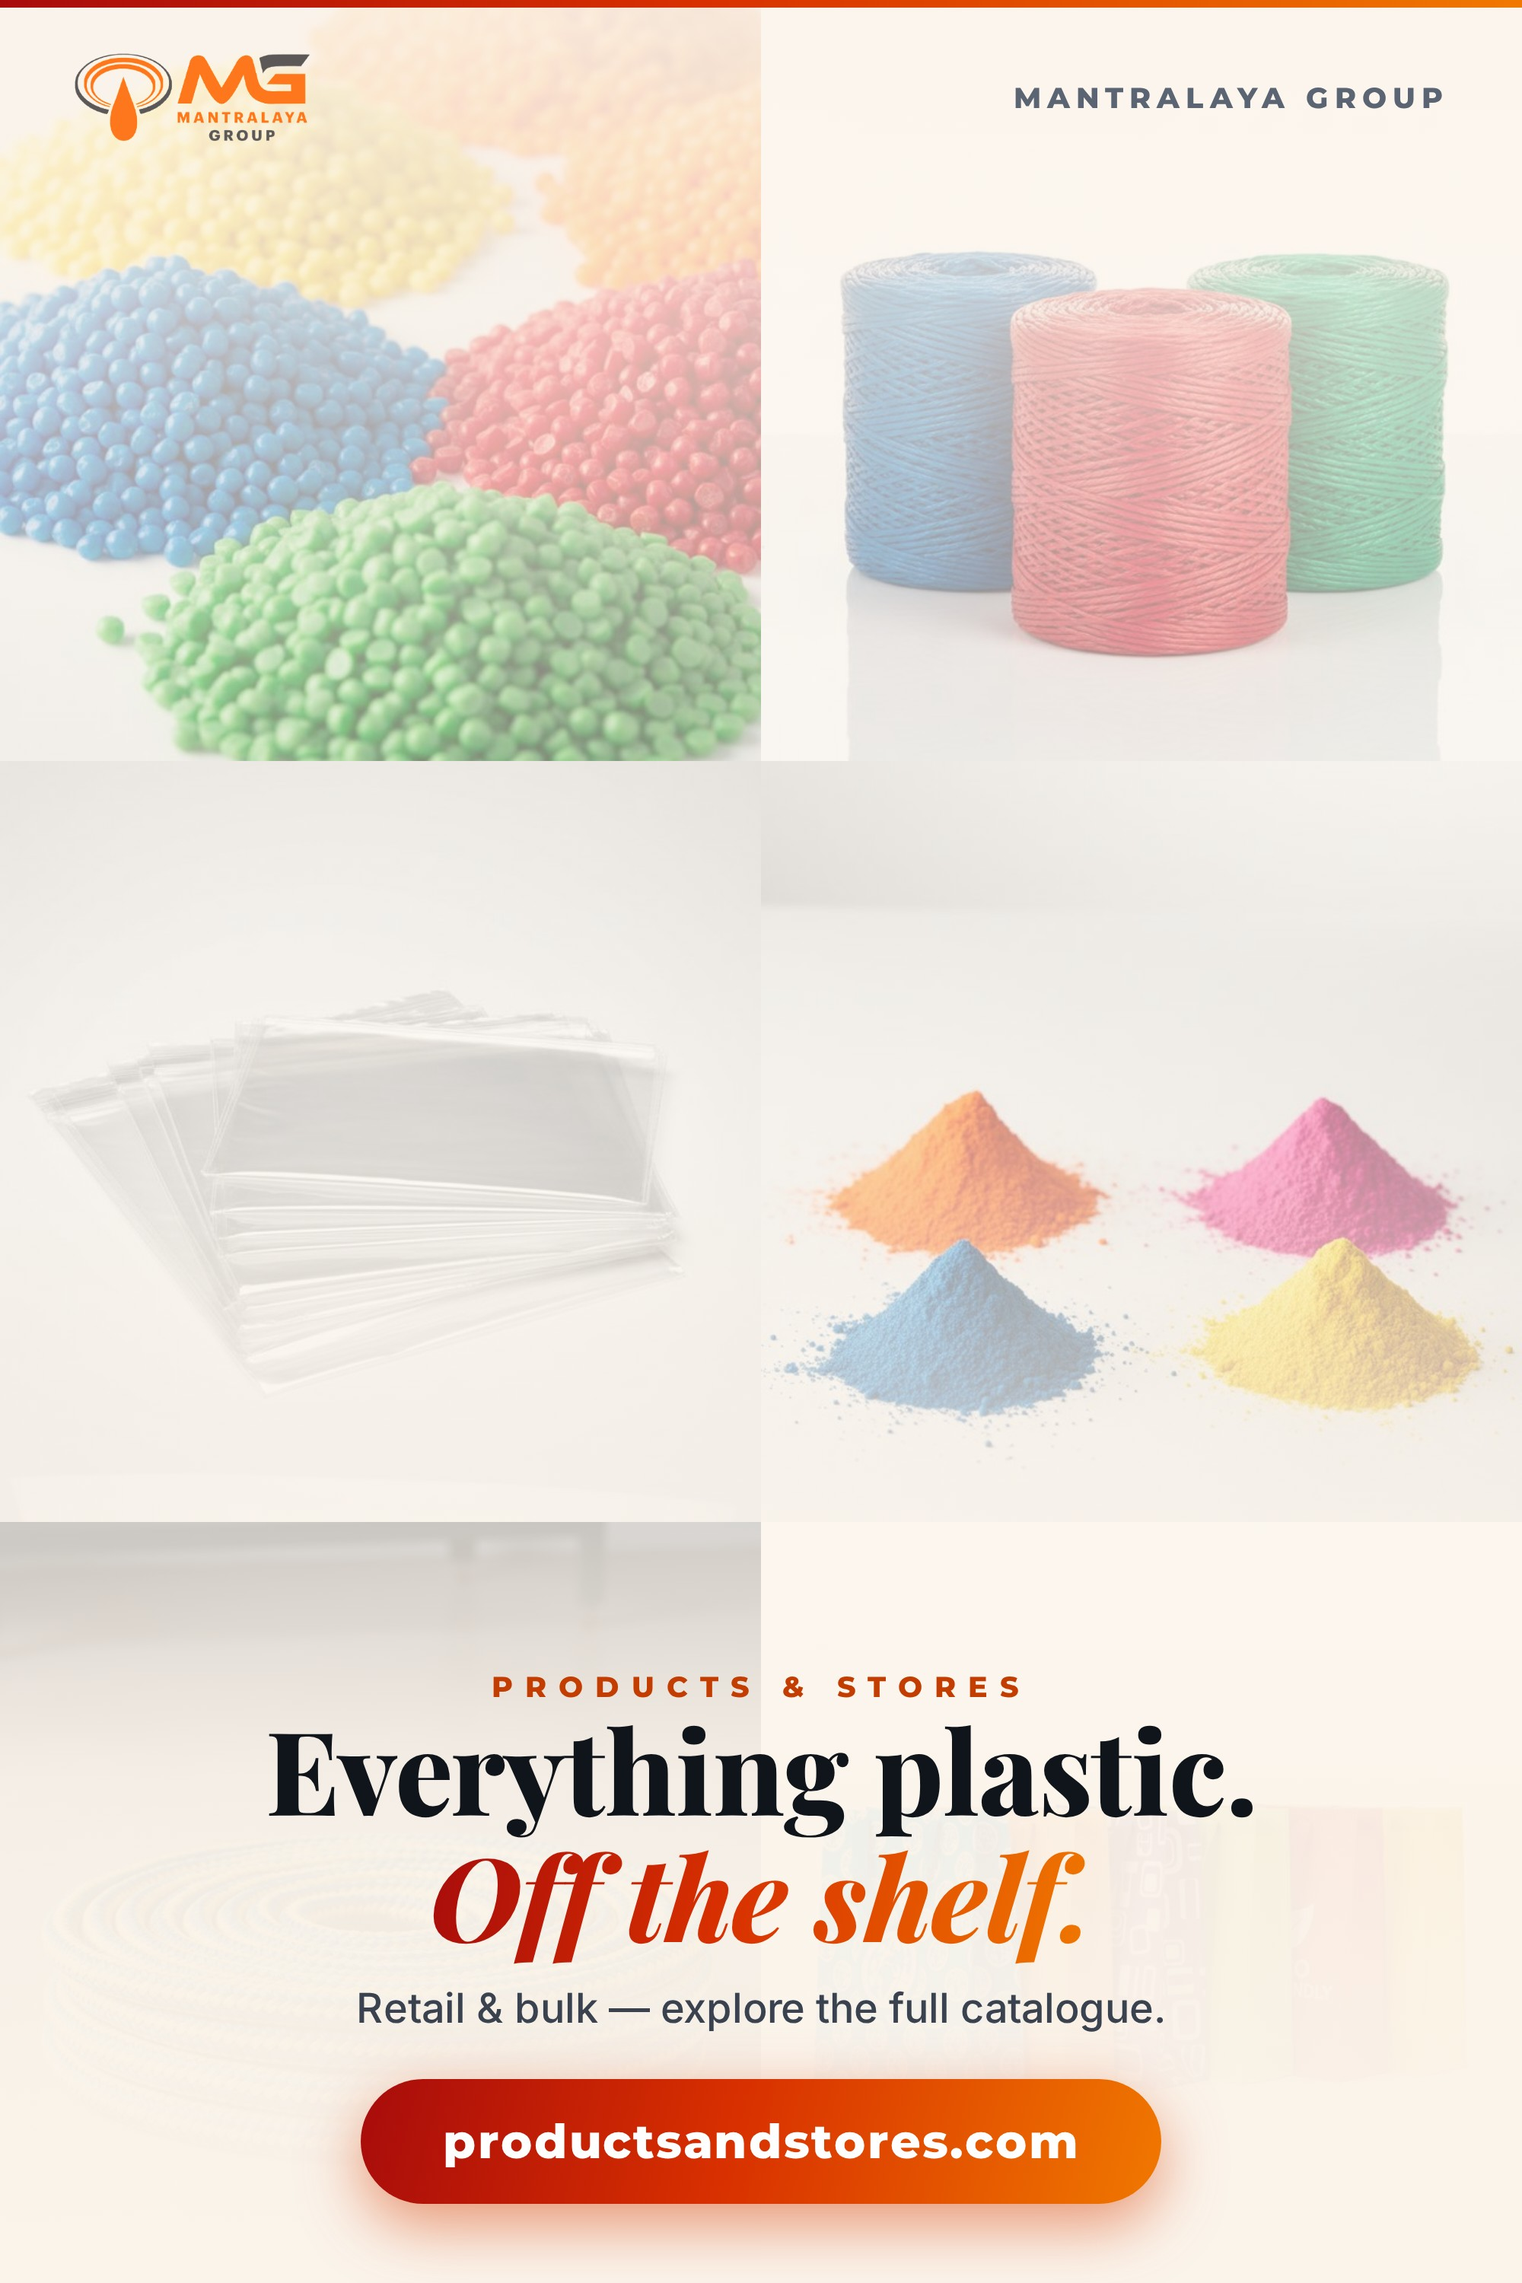
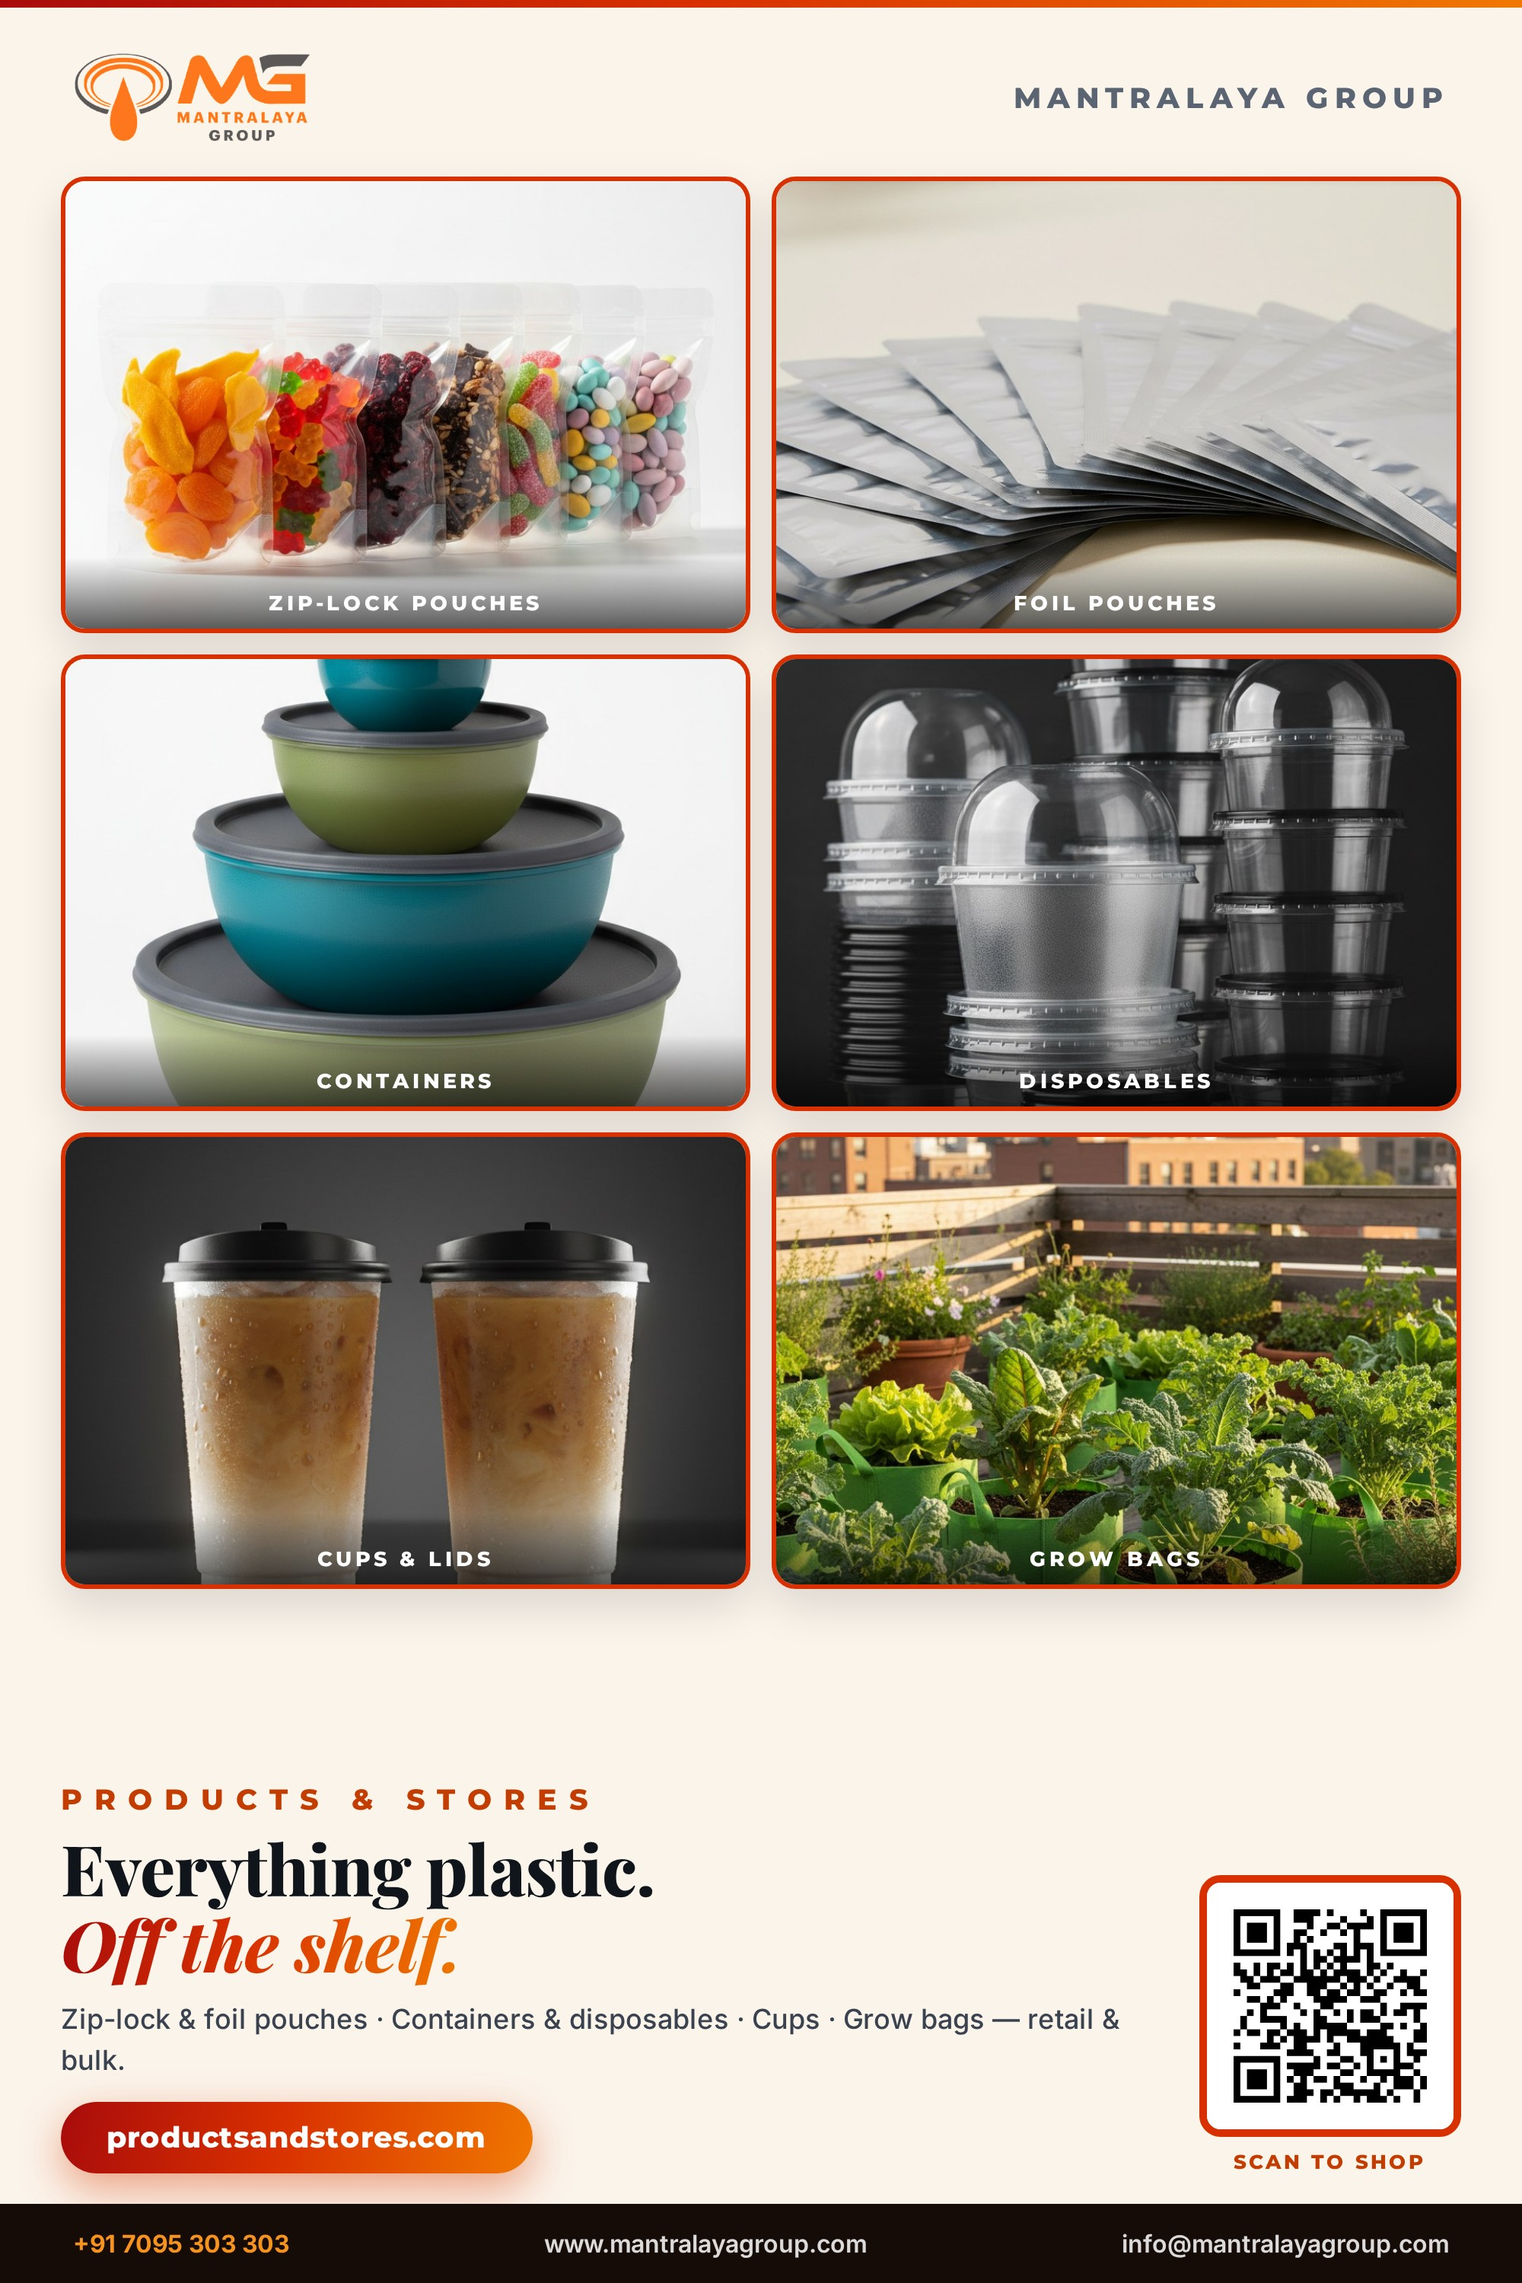
P&S poster rebuilt: store product collage, info bottom, QR bottom-right

diff --git a/posters/src/poster-11-pands--dark.html b/posters/src/poster-11-pands--dark.html
@@ -14,13 +14,26 @@ body{width:1000px;height:1500px;overflow:hidden;position:relative;font-family:'M
 .bgimg::after{content:'';position:absolute;inset:0;background:linear-gradient(100deg, rgba(18,9,6,0.97) 0%, rgba(18,9,6,0.93) 45%, rgba(18,9,6,0.72) 100%)}
 .z{position:relative;z-index:4}
 </style></head><body><style>
-.coll{position:absolute;inset:0;display:grid;grid-template-columns:repeat(2,1fr);grid-template-rows:repeat(3,1fr)}
-.coll img{width:100%;height:100%;object-fit:cover}
-.coll::after{content:'';position:absolute;inset:0;background:linear-gradient(180deg,rgba(13,8,6,0.86),rgba(13,8,6,0.4) 40%,rgba(13,8,6,0.92) 78%,#0D0806)}
-.bt{margin-top:auto;padding:0 52px 52px;text-align:center;position:relative;z-index:4}
-.cap2{font-size:76px}
+.coll{position:relative;margin:22px 40px 0;display:grid;grid-template-columns:1fr 1fr;grid-auto-rows:300px;gap:14px;z-index:4}
+.cw{position:relative;border-radius:16px;overflow:hidden;border:3px solid rgba(240,120,0,0.65);box-shadow:0 12px 28px rgba(0,0,0,0.4)}
+.cw img{width:100%;height:100%;object-fit:cover;display:block}
+.cl{position:absolute;left:0;right:0;bottom:0;padding:22px 14px 9px;text-align:center;font-size:13.5px;font-weight:800;letter-spacing:2px;color:#fff;background:linear-gradient(180deg,transparent,rgba(0,0,0,0.62))}
+.bt{flex:1;display:flex;align-items:flex-end;gap:26px;padding:20px 40px 20px;position:relative;z-index:4}
+.bl{flex:1}
+.cap2{font-size:46px;margin-top:8px;color:#fff}
 .cap2 em{background:linear-gradient(100deg,#FF6A2B,#F6921E 60%,#FFC46B);-webkit-background-clip:text;background-clip:text;color:transparent;font-style:italic}
-.sub{margin-top:16px;font-family:'Inter',sans-serif;font-size:27px;font-weight:500;color:rgba(255,255,255,0.85)}
-.pill{display:inline-block;margin-top:30px;background:linear-gradient(105deg,#A80B0B 0%,#D83000 46%,#F07800 100%);color:#fff;border-radius:100px;padding:22px 54px;font-size:31px;font-weight:800;letter-spacing:1px;box-shadow:0 14px 40px rgba(216,60,0,0.5)}
-</style><div class="coll"><img src="../../products/coloured-granules.jpg"><img src="../../products/plastic-sutli.jpg"><img src="../../products/pp-bags.jpg"><img src="../../products/pigments.jpg"><img src="../../products/ropes.jpg"><img src="../../products/non-woven-bags.jpg"></div><div class="rule"></div><div class="hdr"><img src="../../mg-logo-dark.png"><div class="co">MANTRALAYA GROUP</div></div>
-<div class="bt"><div class="label">PRODUCTS &amp; STORES</div><div class="cap cap2">Everything plastic.<br><em>Off the shelf.</em></div><div class="sub">Retail &amp; bulk — explore the full catalogue.</div><div class="pill">productsandstores.com</div></div></body></html>
+.sub{margin-top:10px;font-family:'Inter',sans-serif;font-size:18px;font-weight:500;color:rgba(255,255,255,0.82);line-height:1.5}
+.url{display:inline-block;margin-top:14px;background:linear-gradient(105deg,#A80B0B 0%,#D83000 46%,#F07800 100%);color:#fff;border-radius:100px;padding:12px 30px;font-size:19px;font-weight:800;letter-spacing:0.5px;box-shadow:0 10px 28px rgba(216,60,0,0.45)}
+.qr{flex:none;text-align:center}
+.qr img{width:172px;height:172px;border-radius:14px;border:5px solid #D83000;background:#fff;display:block}
+.qr .t{margin-top:8px;font-size:13px;font-weight:800;letter-spacing:2px;color:#F6921E}
+</style><div class="rule"></div><div class="hdr"><img src="../../mg-logo-dark.png"><div class="co">MANTRALAYA GROUP</div></div>
+<div class="coll"><div class="cw"><img src="../../products/ps-snack-pouches.jpg"><div class="cl">ZIP-LOCK POUCHES</div></div><div class="cw"><img src="../../products/ps-foil-pouches.jpg"><div class="cl">FOIL POUCHES</div></div><div class="cw"><img src="../../products/ps-food-containers.jpg"><div class="cl">CONTAINERS</div></div><div class="cw"><img src="../../products/ps-disposables.jpg"><div class="cl">DISPOSABLES</div></div><div class="cw"><img src="../../products/ps-cups.jpg"><div class="cl">CUPS &amp; LIDS</div></div><div class="cw"><img src="../../products/ps-grow-bags.jpg"><div class="cl">GROW BAGS</div></div></div>
+<div class="bt"><div class="bl">
+<div class="label">PRODUCTS &amp; STORES</div>
+<div class="cap cap2">Everything plastic.<br><em>Off the shelf.</em></div>
+<div class="sub">Zip-lock &amp; foil pouches · Containers &amp; disposables · Cups · Grow bags — retail &amp; bulk.</div>
+<div class="url">productsandstores.com</div>
+</div>
+<div class="qr"><img src="../qr-ps.png"><div class="t">SCAN TO SHOP</div></div>
+</div><div class="ftr"><span><b>+91 7095 303 303</b></span><span>www.mantralayagroup.com</span><span>info@mantralayagroup.com</span></div></body></html>

diff --git a/posters/src/poster-11-pands--light.html b/posters/src/poster-11-pands--light.html
@@ -14,13 +14,26 @@ body{width:1000px;height:1500px;overflow:hidden;position:relative;font-family:'M
 .bgimg::after{content:'';position:absolute;inset:0;background:linear-gradient(100deg, rgba(251,244,235,0.97) 0%, rgba(251,244,235,0.94) 45%, rgba(251,244,235,0.72) 100%)}
 .z{position:relative;z-index:4}
 </style></head><body><style>
-.coll{position:absolute;inset:0;display:grid;grid-template-columns:repeat(2,1fr);grid-template-rows:repeat(3,1fr)}
-.coll img{width:100%;height:100%;object-fit:cover}
-.coll::after{content:'';position:absolute;inset:0;background:linear-gradient(180deg,rgba(251,244,235,0.93),rgba(251,244,235,0.42) 40%,rgba(251,244,235,0.95) 78%,#FBF4EB)}
-.bt{margin-top:auto;padding:0 52px 52px;text-align:center;position:relative;z-index:4}
-.cap2{font-size:76px}
+.coll{position:relative;margin:22px 40px 0;display:grid;grid-template-columns:1fr 1fr;grid-auto-rows:300px;gap:14px;z-index:4}
+.cw{position:relative;border-radius:16px;overflow:hidden;border:3px solid #D83000;box-shadow:0 12px 28px rgba(0,0,0,0.12)}
+.cw img{width:100%;height:100%;object-fit:cover;display:block}
+.cl{position:absolute;left:0;right:0;bottom:0;padding:22px 14px 9px;text-align:center;font-size:13.5px;font-weight:800;letter-spacing:2px;color:#fff;background:linear-gradient(180deg,transparent,rgba(0,0,0,0.62))}
+.bt{flex:1;display:flex;align-items:flex-end;gap:26px;padding:20px 40px 20px;position:relative;z-index:4}
+.bl{flex:1}
+.cap2{font-size:46px;margin-top:8px;color:#10141B}
 .cap2 em{background:linear-gradient(100deg,#A80B0B,#D83000 45%,#F07800);-webkit-background-clip:text;background-clip:text;color:transparent;font-style:italic}
-.sub{margin-top:16px;font-family:'Inter',sans-serif;font-size:27px;font-weight:500;color:#3A4250}
-.pill{display:inline-block;margin-top:30px;background:linear-gradient(105deg,#A80B0B 0%,#D83000 46%,#F07800 100%);color:#fff;border-radius:100px;padding:22px 54px;font-size:31px;font-weight:800;letter-spacing:1px;box-shadow:0 14px 40px rgba(216,60,0,0.5)}
-</style><div class="coll"><img src="../../products/coloured-granules.jpg"><img src="../../products/plastic-sutli.jpg"><img src="../../products/pp-bags.jpg"><img src="../../products/pigments.jpg"><img src="../../products/ropes.jpg"><img src="../../products/non-woven-bags.jpg"></div><div class="rule"></div><div class="hdr"><img src="../../mg-logo.png"><div class="co">MANTRALAYA GROUP</div></div>
-<div class="bt"><div class="label">PRODUCTS &amp; STORES</div><div class="cap cap2">Everything plastic.<br><em>Off the shelf.</em></div><div class="sub">Retail &amp; bulk — explore the full catalogue.</div><div class="pill">productsandstores.com</div></div></body></html>
+.sub{margin-top:10px;font-family:'Inter',sans-serif;font-size:18px;font-weight:500;color:#3A4250;line-height:1.5}
+.url{display:inline-block;margin-top:14px;background:linear-gradient(105deg,#A80B0B 0%,#D83000 46%,#F07800 100%);color:#fff;border-radius:100px;padding:12px 30px;font-size:19px;font-weight:800;letter-spacing:0.5px;box-shadow:0 10px 28px rgba(216,60,0,0.45)}
+.qr{flex:none;text-align:center}
+.qr img{width:172px;height:172px;border-radius:14px;border:5px solid #D83000;background:#fff;display:block}
+.qr .t{margin-top:8px;font-size:13px;font-weight:800;letter-spacing:2px;color:#C43D00}
+</style><div class="rule"></div><div class="hdr"><img src="../../mg-logo.png"><div class="co">MANTRALAYA GROUP</div></div>
+<div class="coll"><div class="cw"><img src="../../products/ps-snack-pouches.jpg"><div class="cl">ZIP-LOCK POUCHES</div></div><div class="cw"><img src="../../products/ps-foil-pouches.jpg"><div class="cl">FOIL POUCHES</div></div><div class="cw"><img src="../../products/ps-food-containers.jpg"><div class="cl">CONTAINERS</div></div><div class="cw"><img src="../../products/ps-disposables.jpg"><div class="cl">DISPOSABLES</div></div><div class="cw"><img src="../../products/ps-cups.jpg"><div class="cl">CUPS &amp; LIDS</div></div><div class="cw"><img src="../../products/ps-grow-bags.jpg"><div class="cl">GROW BAGS</div></div></div>
+<div class="bt"><div class="bl">
+<div class="label">PRODUCTS &amp; STORES</div>
+<div class="cap cap2">Everything plastic.<br><em>Off the shelf.</em></div>
+<div class="sub">Zip-lock &amp; foil pouches · Containers &amp; disposables · Cups · Grow bags — retail &amp; bulk.</div>
+<div class="url">productsandstores.com</div>
+</div>
+<div class="qr"><img src="../qr-ps.png"><div class="t">SCAN TO SHOP</div></div>
+</div><div class="ftr"><span><b>+91 7095 303 303</b></span><span>www.mantralayagroup.com</span><span>info@mantralayagroup.com</span></div></body></html>

diff --git a/posters/gen2.py b/posters/gen2.py
@@ -516,6 +516,39 @@ def compco_sq(w,h,dark,cohero,cap,tiles,subline):
 <div class="sub">{subline}</div>
 </div>{FOOT}"""
 
+def pands2(w,h,dark):
+    """Products & Stores 1000x1500 — store product collage, info bottom, QR bottom-right."""
+    gt = GT_W if dark else GT_D
+    fg = '#fff' if dark else '#10141B'
+    photos=[('ps-snack-pouches','ZIP-LOCK POUCHES'),('ps-foil-pouches','FOIL POUCHES'),('ps-food-containers','CONTAINERS'),
+            ('ps-disposables','DISPOSABLES'),('ps-cups','CUPS &amp; LIDS'),('ps-grow-bags','GROW BAGS')]
+    tiles=''.join(f'<div class="cw"><img src="{P(p)}"><div class="cl">{l}</div></div>' for p,l in photos)
+    ov = 'linear-gradient(180deg, rgba(13,8,6,0) 55%, rgba(13,8,6,0.55) 78%, #0D0806 100%)' if dark else 'linear-gradient(180deg, rgba(251,244,235,0) 55%, rgba(251,244,235,0.55) 78%, #FBF4EB 100%)'
+    return base(w,h,dark)+f"""<style>
+.coll{{position:relative;margin:22px 40px 0;display:grid;grid-template-columns:1fr 1fr;grid-auto-rows:300px;gap:14px;z-index:4}}
+.cw{{position:relative;border-radius:16px;overflow:hidden;border:3px solid {'rgba(240,120,0,0.65)' if dark else '#D83000'};box-shadow:0 12px 28px rgba(0,0,0,{'0.4' if dark else '0.12'})}}
+.cw img{{width:100%;height:100%;object-fit:cover;display:block}}
+.cl{{position:absolute;left:0;right:0;bottom:0;padding:22px 14px 9px;text-align:center;font-size:13.5px;font-weight:800;letter-spacing:2px;color:#fff;background:linear-gradient(180deg,transparent,rgba(0,0,0,0.62))}}
+.bt{{flex:1;display:flex;align-items:flex-end;gap:26px;padding:20px 40px 20px;position:relative;z-index:4}}
+.bl{{flex:1}}
+.cap2{{font-size:46px;margin-top:8px;color:{fg}}}
+.cap2 em{{{gt}font-style:italic}}
+.sub{{margin-top:10px;font-family:'Inter',sans-serif;font-size:18px;font-weight:500;color:{'rgba(255,255,255,0.82)' if dark else '#3A4250'};line-height:1.5}}
+.url{{display:inline-block;margin-top:14px;background:{GRAD};color:#fff;border-radius:100px;padding:12px 30px;font-size:19px;font-weight:800;letter-spacing:0.5px;box-shadow:0 10px 28px rgba(216,60,0,0.45)}}
+.qr{{flex:none;text-align:center}}
+.qr img{{width:172px;height:172px;border-radius:14px;border:5px solid #D83000;background:#fff;display:block}}
+.qr .t{{margin-top:8px;font-size:13px;font-weight:800;letter-spacing:2px;color:{'#F6921E' if dark else '#C43D00'}}}
+</style>{hdr(dark)}
+<div class="coll">{tiles}</div>
+<div class="bt"><div class="bl">
+<div class="label">PRODUCTS &amp; STORES</div>
+<div class="cap cap2">Everything plastic.<br><em>Off the shelf.</em></div>
+<div class="sub">Zip-lock &amp; foil pouches · Containers &amp; disposables · Cups · Grow bags — retail &amp; bulk.</div>
+<div class="url">productsandstores.com</div>
+</div>
+<div class="qr"><img src="../qr-ps.png"><div class="t">SCAN TO SHOP</div></div>
+</div>{FOOT}"""
+
 def build(dark):
     v = {}
     em = lambda t: f"<em>{t}</em>"
@@ -542,8 +575,7 @@ def build(dark):
     v['poster-09-bags'] = (1500,600, duoposter(1500,600,dark,'END PRODUCTS',f"Bags for {em('every business.')}",
       'PP &amp; PE bags · BOPP bags · Non-woven bags · Garment &amp; jewellery packing',['pp-bags','non-woven-bags','garment-bags','bopp-bags'],'non-woven-bags',cohero='SREE RAVITEJA POLYMERS',tile_ar=1.8,cohero_size=33))
     v['poster-10-films'] = (1000,1000, photoposter(1000,1000,dark,'POLY FILMS','Films that protect what you make.','Treated rolls · Stretch film · Packaging films','treated-rolls'))
-    v['poster-11-pands'] = (1000,1500, collageposter(1000,1500,dark,'PRODUCTS &amp; STORES',f"Everything plastic.<br>{em('Off the shelf.')}",
-      'Retail &amp; bulk — explore the full catalogue.','productsandstores.com',['coloured-granules','plastic-sutli','pp-bags','pigments','ropes','non-woven-bags']))
+    v['poster-11-pands'] = (1000,1500, pands2(1000,1500,dark))
     v['poster-12-totem'] = (600,2133, totem(600,2133,dark))
     v['poster-13-credit-1'] = (1500,750, message(1500,750,dark,'CREDIT FACILITY',f"Your growth. {em('Our credit.')}",
       'Flexible credit facilities for trusted trade partners — built on 35+ years of relationships. Talk to our team today.',sidephoto='coloured-granules'))
